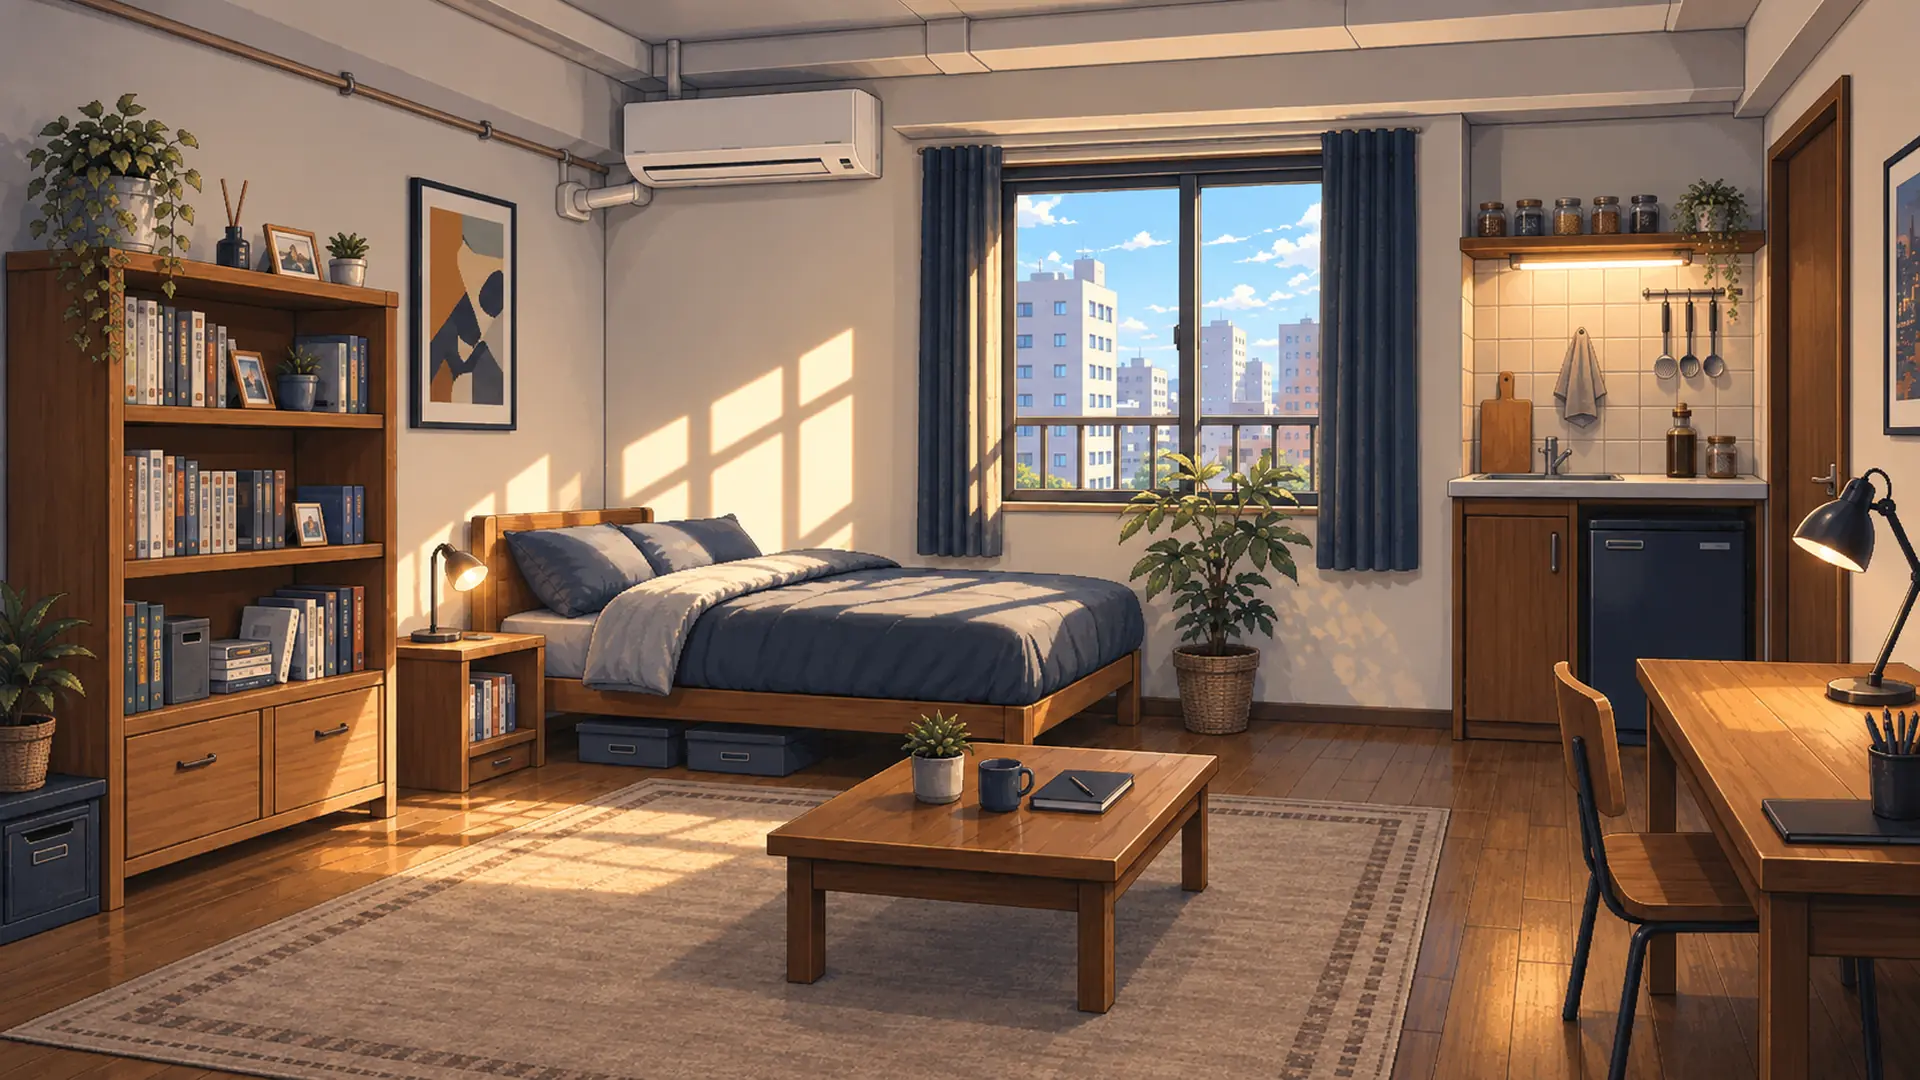
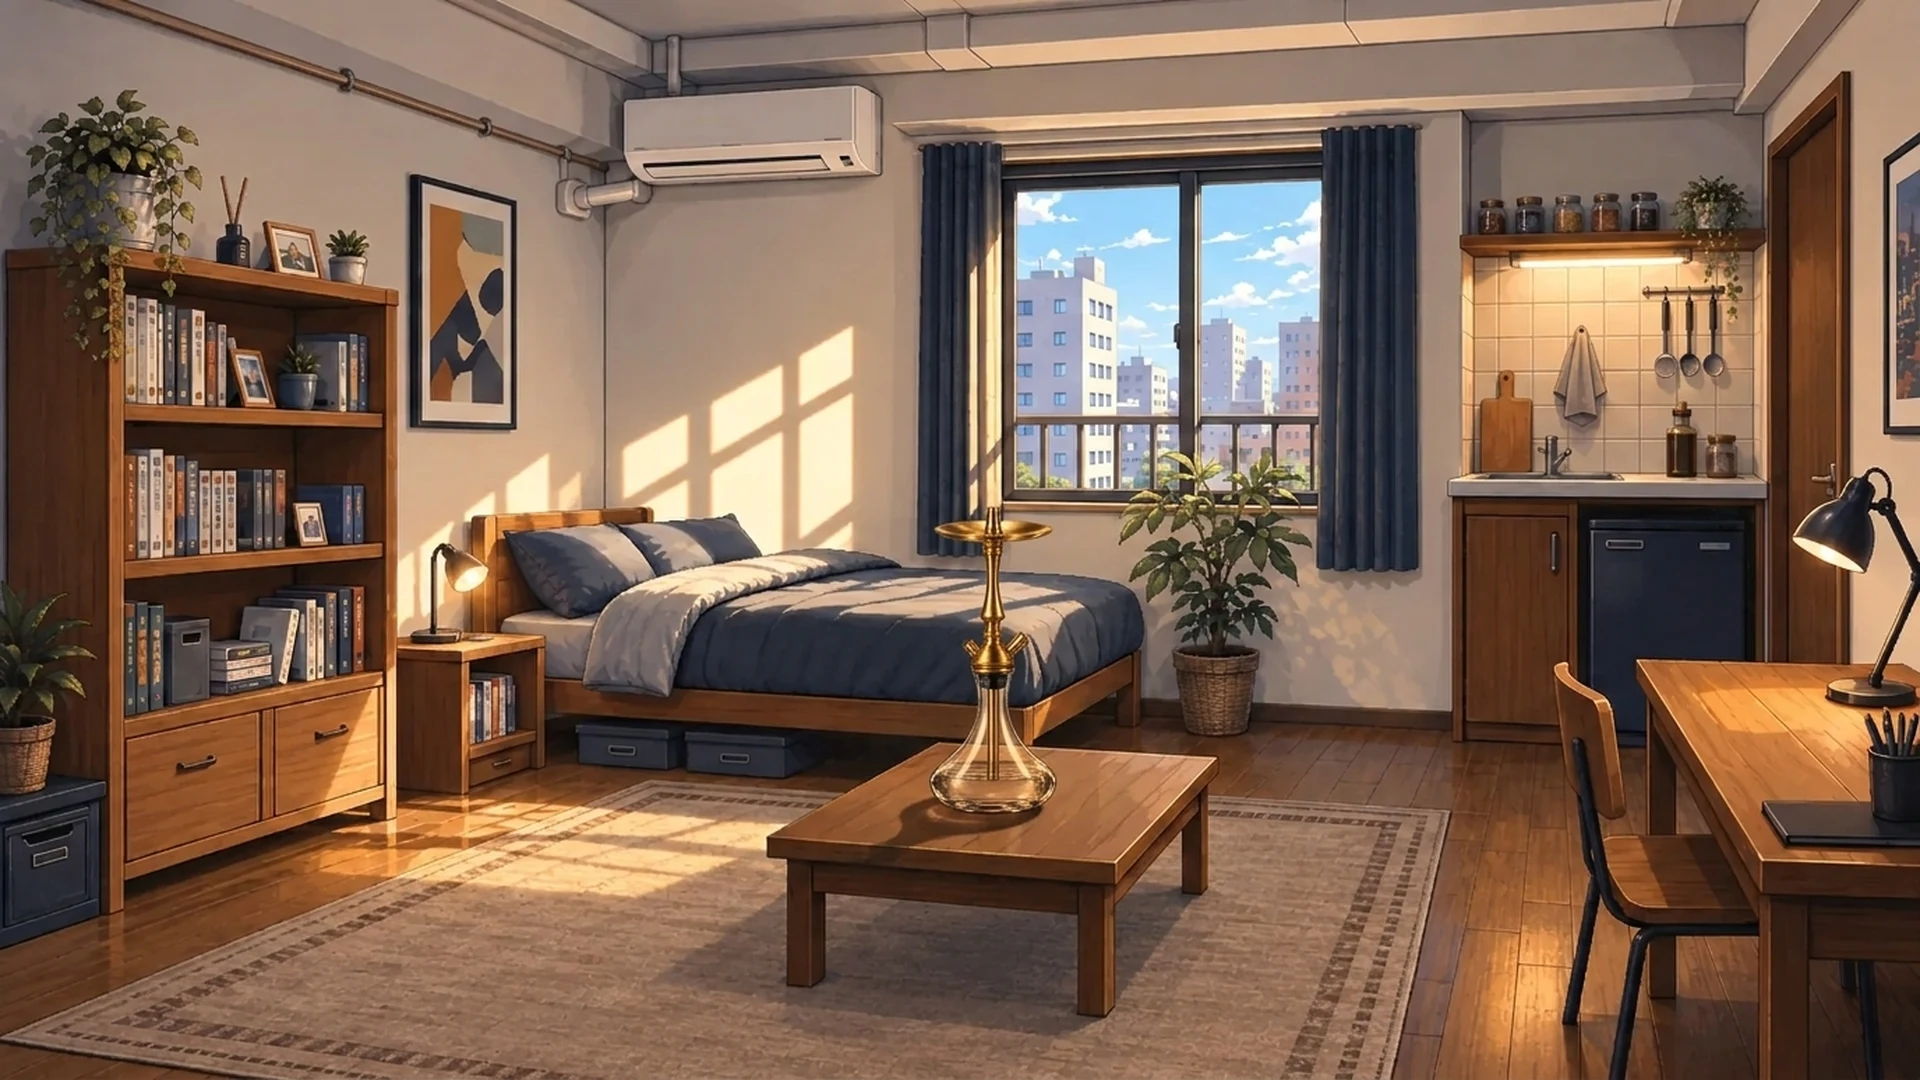
自室の昼背景を台描き込みの絵へ差し替え（#3418）
- bg_home_day.webp を、ローテーブル中央に台を描き込んだ新背景（オーナー採用・候補B）へ差し替え。原画JPGを asset_sources/backgrounds/home-day-20261118/ に保管
- scene-art.js: 昼の晴天背景では所持品の台を重ねない（台が二重になるため）。夜・曇天・無印は従来どおり最新1台を重ねる
- home_rig_backgrounds.mjs: 昼前提の期待値を新仕様へ追随（最新1台の判定は夜背景で検証。プレビューと朝の場面は実背景に合わせて判定）

diff --git a/remake/js/core/scene-art.js b/remake/js/core/scene-art.js
@@ -83,7 +83,12 @@ function homeProps(available) {
 }
 function propsFor(url, { homeRigs = true } = {}) {
   const available = new Set(DB.manifest.sceneProps || []);
-  if (isHome(url)) return homeRigs ? homeProps(available) : [];
+  if (isHome(url)) {
+    // 昼の自室背景は台をローテーブルの真ん中へ描き込んだ絵（#3418・2026-11-18 オーナー採用の背景リメイク）。
+    // 所持品の台を重ねると台が二重になるので、昼だけ小道具を出さない。夜・曇天は描き込みが無いので従来どおり重ねる。
+    if (sceneFile(url) === "bg_home_day.png") return [];
+    return homeRigs ? homeProps(available) : [];
+  }
   return (SCENE_PROPS[sceneFile(url)] || []).filter((p) => available.has(p.file));
 }
 export function sceneArtUrls(url, options) {
